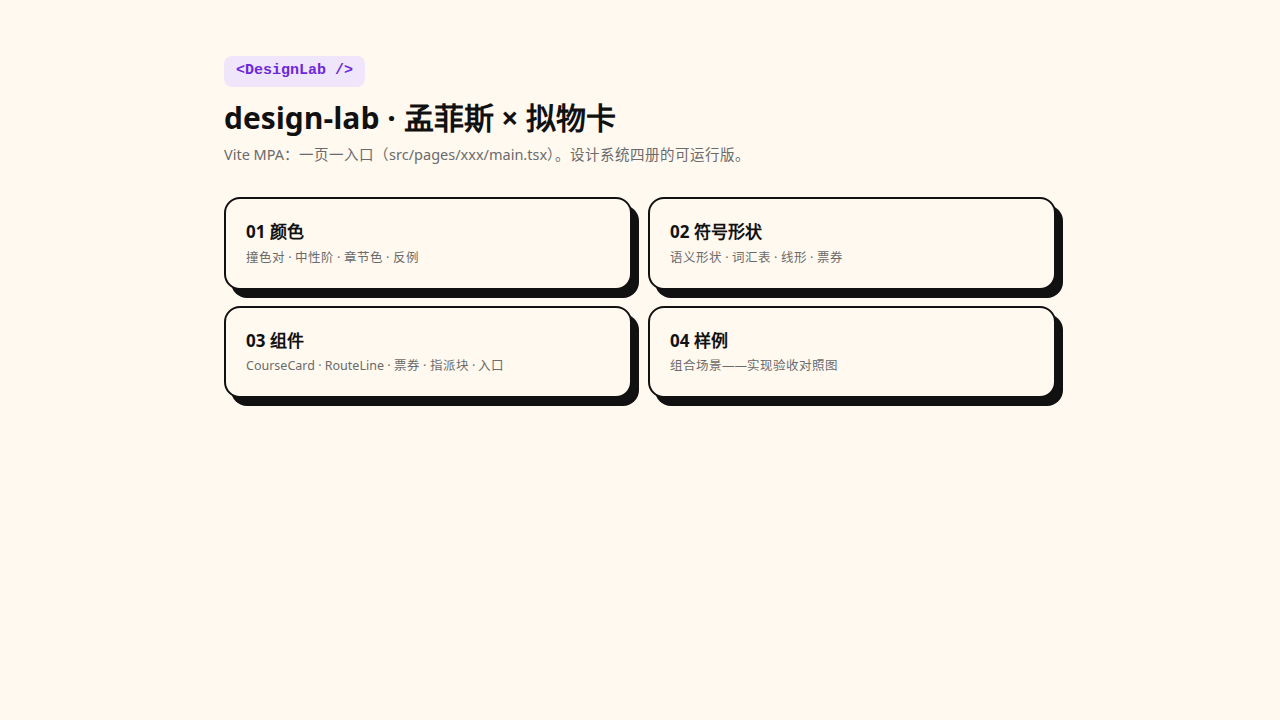
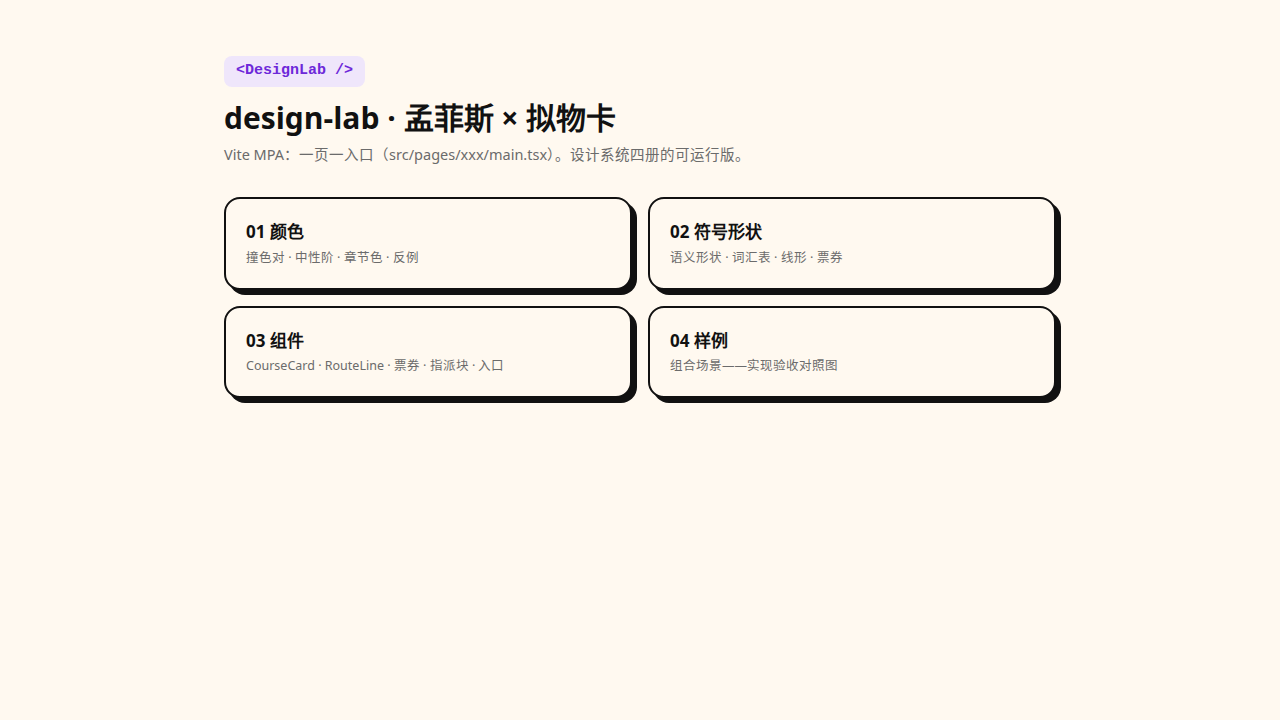
refactor: 去掉纸叠亮边——删 stack-1/stack-2 与死代码 .sem-shadow，全组件统一复用 shadow-hard/shadow-hard-lift 唯一投影配方；E2E 新增「基础组件投影统一」契约（data-comp 钩子 + 计算值全等）

diff --git a/apps/design-lab/e2e/pages.spec.ts b/apps/design-lab/e2e/pages.spec.ts
@@ -38,7 +38,7 @@ test.describe('全局画布', () => {
 test.describe('CourseCard 规格契约', () => {
   test.beforeEach(async ({ page }) => await page.goto('/components.html'))
 
-  test('2px ink 描边 + 硬投影 + 纸叠三层边', async ({ page }) => {
+  test('2px ink 描边 + 统一硬投影（单层 ink，无纸叠）', async ({ page }) => {
     const card = page.locator('a[href="#ch1"]').first()
     await expect(card).toBeVisible()
     const s = await card.evaluate((el) => {
@@ -47,8 +47,23 @@ test.describe('CourseCard 规格契约', () => {
     })
     expect(s.bw).toBe('2px')
     expect(s.bc).toBe('rgb(17, 17, 17)')
-    expect((s.shadow.match(/rgb|#/g) ?? []).length).toBeGreaterThanOrEqual(4) // 三层纸叠+硬投影（按色值计数）
-    expect(s.shadow).toContain('rgb(17, 17, 17)')
+    // 唯一配方 --shadow-hard：恰好一层 ink 硬投影（tw 变体层均为透明占位），无纸叠多层
+    expect(s.shadow.split('rgb(17, 17, 17)').length - 1).toBe(1)
+    expect(s.shadow).toContain('rgb(17, 17, 17) 5px 5px 0px 0px')
+  })
+
+  test('基础组件投影统一：同一 token 复用，不得各写各的', async ({ page }) => {
+    const { kinds, shadows } = await page.evaluate(() => {
+      const els = [...document.querySelectorAll('[data-comp]')]
+      return {
+        kinds: [...new Set(els.map((el) => el.dataset.comp))].sort(),
+        shadows: els.map((el) => getComputedStyle(el).boxShadow),
+      }
+    })
+    expect(kinds).toEqual(['assign', 'course-card', 'entry-card', 'ticket']) // 四类基础组件都有钩子
+    expect(shadows.length).toBeGreaterThanOrEqual(6)
+    expect(new Set(shadows).size).toBe(1) // 计算值完全一致＝样式复用
+    expect(shadows[0]).toContain('rgb(17, 17, 17) 5px 5px 0px 0px')
   })
 
   test('16:9 相框：比例、3px 黑边、内阴影、章节撞色', async ({ page }) => {

diff --git a/apps/design-lab/src/pages/colors/App.tsx b/apps/design-lab/src/pages/colors/App.tsx
@@ -8,8 +8,6 @@ const PAIRS = [
 const NEUTRALS = [
   { c: '#111111', n: 'ink', h: '#111111 · 描边/字/硬投影' },
   { c: '#FFF9F0', n: 'paper', h: '#FFF9F0 · 卡面/大底' },
-  { c: '#FFFFFF', n: 'stack-1', h: '#FFFFFF · 纸叠亮边' },
-  { c: '#EADFC4', n: 'stack-2', h: '#EADFC4 · 纸叠暗层' },
 ]
 const CHAPTERS6 = [
   { c: '#FF6B6B', n: 'ch1 快速开始' }, { c: '#FF8FAB', n: 'ch2 React' }, { c: '#FFD93D', n: 'ch3 更多示例' },
@@ -56,7 +54,7 @@ export function App() {
         </div>
       </Section>
       <Section label="中性阶" note="纸的世界——字、边、投影、底">
-        <div className="grid grid-cols-4 gap-3">{NEUTRALS.map((x) => <Chip key={x.n} {...x} />)}</div>
+        <div className="grid grid-cols-2 gap-3">{NEUTRALS.map((x) => <Chip key={x.n} {...x} />)}</div>
       </Section>
       <Section label="章节色" note="六章六色，只进 16:9 相框与图标瓦">
         <div className="grid grid-cols-6 gap-3">{CHAPTERS6.map((x) => <Chip key={x.n} {...x} h={x.c} />)}</div>
@@ -73,7 +71,7 @@ export function App() {
             <div className="h-10 w-40 rounded-lg bg-clash2a" />
           </DoDont>
           <DoDont text="一切鲜艳以 2px ink 描边为界">
-            <div className="h-10 w-40 rounded-lg border-2 border-ink bg-clash2a shadow-[4px_4px_0_var(--color-ink)]" />
+            <div className="h-10 w-40 rounded-lg border-2 border-ink bg-clash2a shadow-hard" />
           </DoDont>
           <DoDont bad text="大底鲜艳，字被淹没">
             <div className="flex h-10 w-40 items-center justify-center rounded-lg border-2 border-ink bg-clash1b text-[11px] font-bold">大底鲜艳</div>

diff --git a/apps/design-lab/src/components/Ticket.tsx b/apps/design-lab/src/components/Ticket.tsx
@@ -5,7 +5,8 @@ import type { Chapter } from '../lib/types'
 export function Ticket({ chapter, done }: { chapter: Chapter; done: boolean }) {
   return (
     <div
-      className={`relative flex w-[216px] items-stretch overflow-hidden rounded-xl border-2 border-ink bg-paper shadow-[5px_5px_0_var(--color-ink)] ${done ? 'ticket-pk' : ''}`}
+      data-comp="ticket"
+      className={`relative flex w-[216px] items-stretch overflow-hidden rounded-xl border-2 border-ink bg-paper shadow-hard ${done ? 'ticket-pk' : ''}`}
     >
       {/* 头部媒体块：章节色纯填充，无独立边框（由票体裁切） */}
       <div className="flex w-14 shrink-0 items-center justify-center text-[22px]" style={{ background: chapter.color }}>{chapter.emoji}</div>
@@ -39,7 +40,7 @@ export function AssignBlock({
   miss: { how: string; looks: string }
 }) {
   return (
-    <div className="w-[260px] rounded-xl border-2 border-ink bg-paper p-3 shadow-[5px_5px_0_var(--color-ink)]">
+    <div data-comp="assign" className="w-[260px] rounded-xl border-2 border-ink bg-paper p-3 shadow-hard">
       <div className="flex items-center gap-2">
         <svg width="16" height="16" viewBox="0 0 18 18" aria-hidden>
           <path d="M9 1 v16 M1 9 h16" stroke="var(--color-clash2b)" strokeWidth="3.5" strokeLinecap="round" />

diff --git a/apps/design-lab/src/components/MemphisCard.tsx b/apps/design-lab/src/components/MemphisCard.tsx
@@ -68,11 +68,11 @@ export function MemphisCard({ chapter, entry, compact = false }: { chapter: Chap
     <a
       ref={boxRef}
       href={`#ch${chapter.id}`}
+      data-comp="course-card"
       className="group relative block rounded-[14px] border-2 border-ink bg-paper p-[11px] no-underline
-                 shadow-[0_3px_0_var(--color-stack1),0_5px_0_var(--color-stack2),7px_8px_0_var(--color-ink)]
-                 transition-transform duration-150 focus-visible:outline-none
-                 hover:-translate-y-[3px] hover:shadow-[0_3px_0_var(--color-stack1),0_5px_0_var(--color-stack2),10px_11px_0_var(--color-ink)]
-                 focus-visible:-translate-y-[3px] focus-visible:shadow-[0_3px_0_var(--color-stack1),0_5px_0_var(--color-stack2),10px_11px_0_var(--color-ink)]"
+                 shadow-hard transition-transform duration-150 focus-visible:outline-none
+                 hover:-translate-y-[3px] hover:shadow-hard-lift
+                 focus-visible:-translate-y-[3px] focus-visible:shadow-hard-lift"
       onMouseEnter={() => setLocked(true)}
       onMouseLeave={() => setLocked(false)}
       onFocus={() => setLocked(true)}

diff --git a/apps/design-lab/src/styles/tokens.css b/apps/design-lab/src/styles/tokens.css
@@ -13,10 +13,12 @@
   /* 中性阶（纸的世界） */
   --color-ink: #111111;
   --color-paper: #fff9f0;
-  --color-stack1: #ffffff;
-  --color-stack2: #eadfc4;
   --color-mute: #8a7a5c;
   --color-body: #3d3d3d;
+
+  /* 统一硬投影——唯一投影配方，所有基础组件复用（rest / 拿起） */
+  --shadow-hard: 5px 5px 0 var(--color-ink);
+  --shadow-hard-lift: 8px 8px 0 var(--color-ink);
 
   /* 章节色别名 */
   --color-ch1: #ff6b6b;
@@ -25,11 +27,6 @@
   --color-ch4: #4ecdc4;
   --color-ch5: #5b8def;
   --color-ch6: #a78bfa;
-}
-
-/* 语义形状通用 */
-.sem-shadow {
-  filter: drop-shadow(0 1px 0 rgba(255, 255, 255, 0.9));
 }
 
 /* 票券打孔：两端各以 1/4 圆做差集（完成票专用）。

diff --git a/apps/design-lab/src/pages/index/App.tsx b/apps/design-lab/src/pages/index/App.tsx
@@ -18,7 +18,7 @@ export function App() {
           <a
             key={p.href}
             href={p.href}
-            className="rounded-2xl border-2 border-ink bg-paper p-5 no-underline shadow-[7px_8px_0_var(--color-ink)] transition-transform hover:-translate-y-[3px]"
+            className="rounded-2xl border-2 border-ink bg-paper p-5 no-underline shadow-hard transition-transform hover:-translate-y-[3px] hover:shadow-hard-lift"
           >
             <b className="text-[17px] text-ink">{p.name}</b>
             <p className="m-0 mt-1 text-[12.5px] text-[#6b6b6b]">{p.desc}</p>

diff --git a/apps/design-lab/src/components/EntryGuide.tsx b/apps/design-lab/src/components/EntryGuide.tsx
@@ -5,7 +5,7 @@ export function EntryGuide() {
   return (
     <div className="flex flex-wrap gap-5">
       {PROFILES.map((p) => (
-        <div key={p.name} className="w-[252px] rounded-xl border-2 border-ink bg-paper p-3 shadow-[5px_5px_0_var(--color-ink)]">
+        <div key={p.name} data-comp="entry-card" className="w-[252px] rounded-xl border-2 border-ink bg-paper p-3 shadow-hard">
           <div className="flex items-center gap-2">
             <span
               className="flex h-[26px] w-[26px] items-center justify-center rounded-lg border-2 border-ink text-[14px]"
